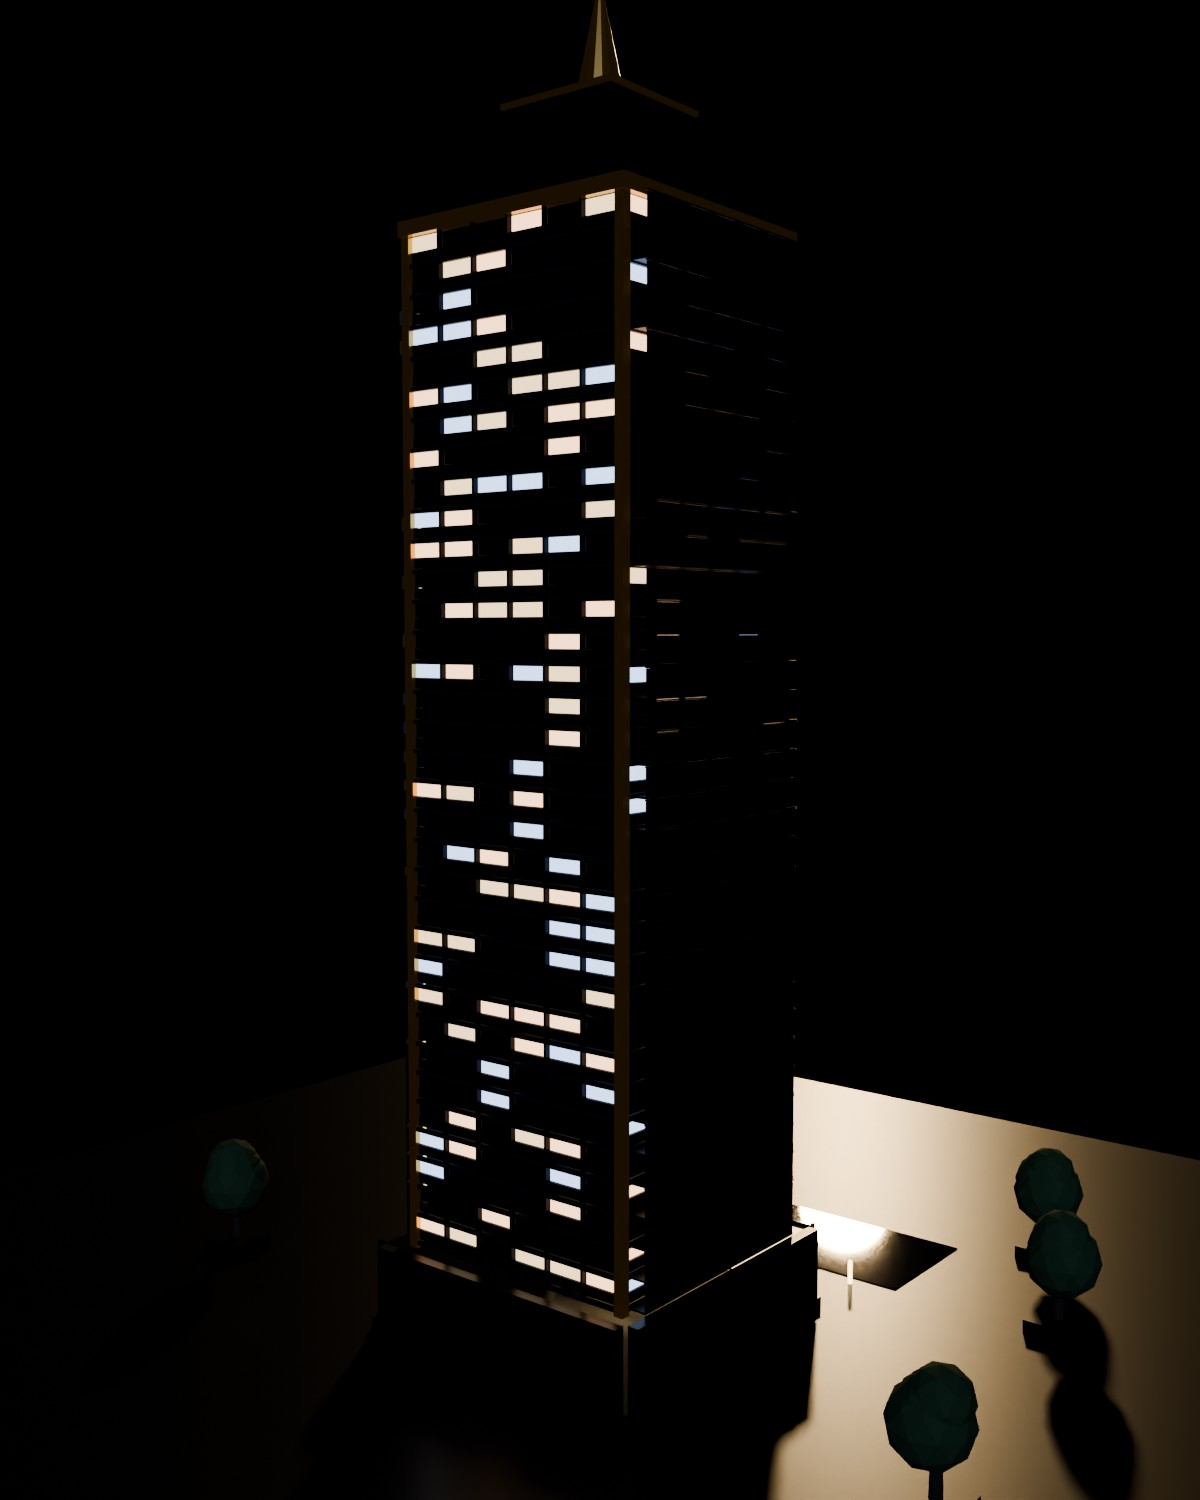
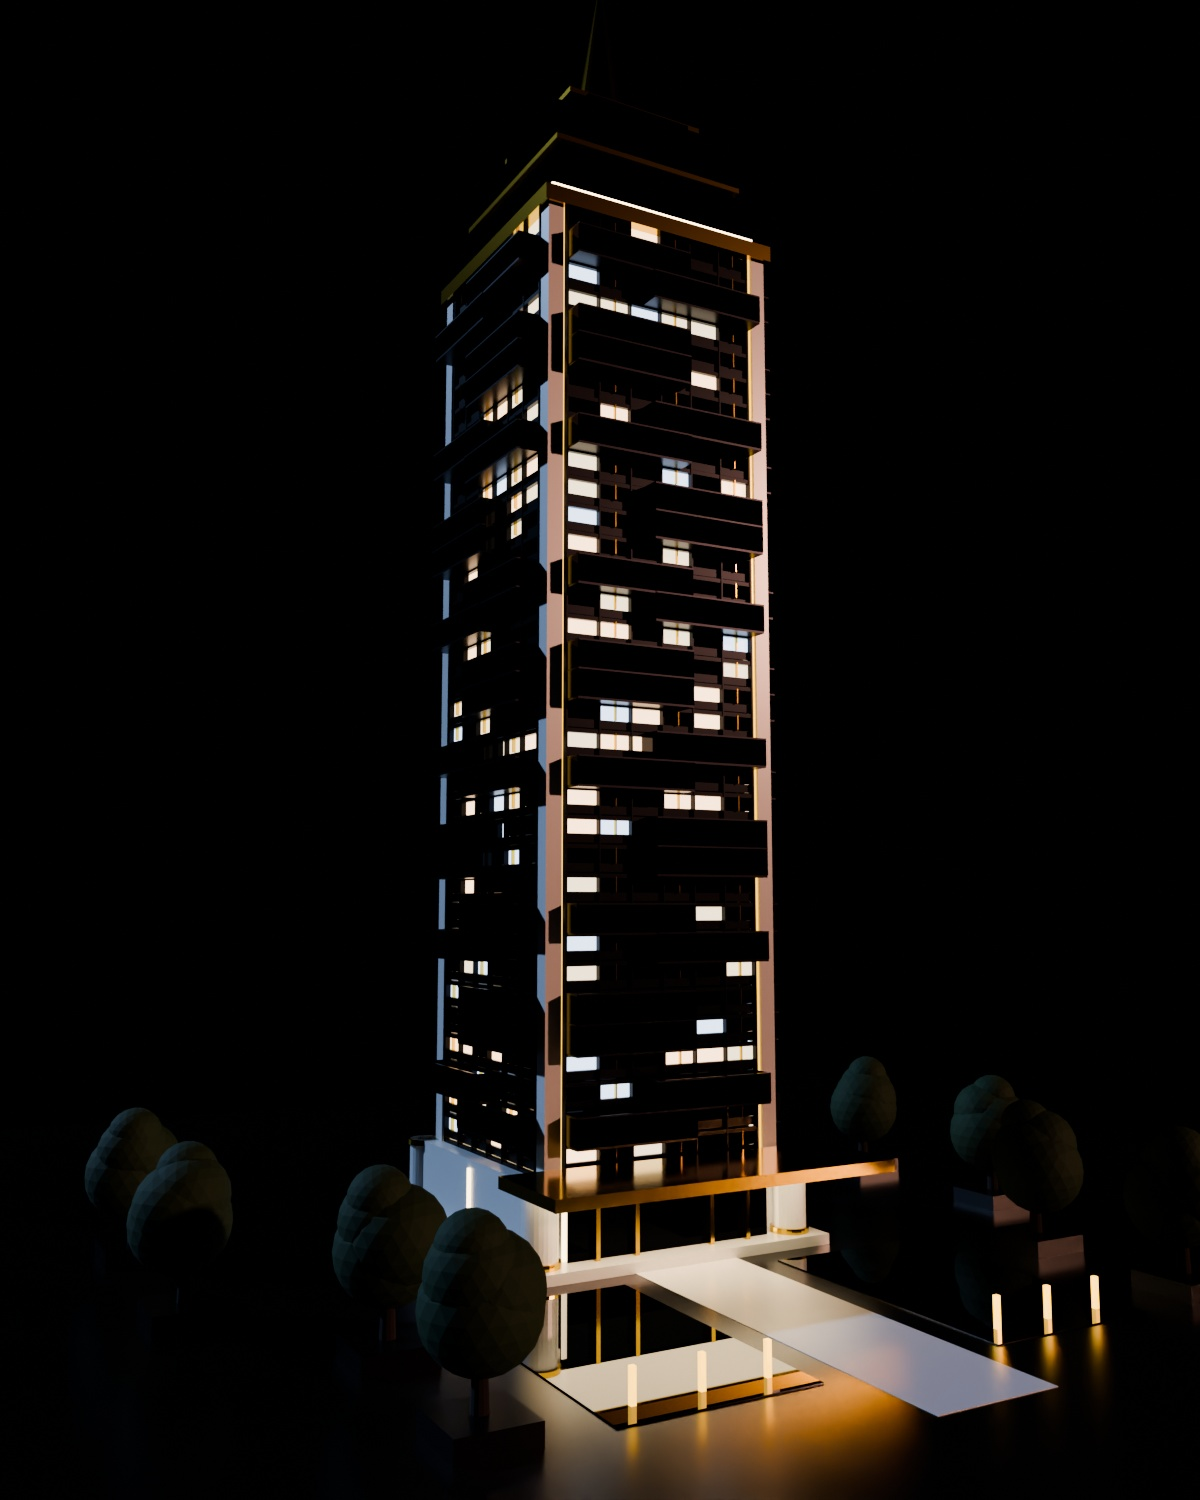
Enhance tower exterior with luxury details: mega-frame, gold louvers, tiered crown, grand podium, plaza landscaping

diff --git a/blender/build_tower_rich.py b/blender/build_tower_rich.py
@@ -1,0 +1,385 @@
+import bpy, bmesh, math, random, sys, os
+from mathutils import Vector
+
+# Use the actual correct path
+ROOT = "C:/Users/user/Documents/lumiere-residences"
+GLB = ROOT + "/public/models/tower.glb"
+PREVIEW = ROOT + "/blender/_tower_preview.jpg"
+argv = sys.argv[sys.argv.index("--") + 1:] if "--" in sys.argv else []
+DO_PREVIEW = "nopreview" not in argv
+
+# Ensure directory exists
+os.makedirs(os.path.dirname(GLB), exist_ok=True)
+
+# ---- match TowerScene.tsx TOWER constants ----
+FL = 34          # floors
+FH = 1.0         # floor height
+POD = 3.0        # podium height
+W = 9.0          # body width (x)
+D = 9.0          # body depth (y)
+BODY_Z0 = POD
+BODY_Z1 = POD + FL * FH       # 37
+RNG = random.Random(20260615)
+
+# ------------------------------------------------------------------ colour
+def s2l(c):
+    return c / 12.92 if c <= 0.04045 else ((c + 0.055) / 1.055) ** 2.4
+def col(h):
+    h = h.lstrip("#")
+    return tuple(s2l(int(h[i:i+2], 16) / 255) for i in (0, 2, 4))
+
+def mat(name, base, rough=0.5, metal=0.0, emis=None, estr=1.0, transmission=0.0, ior=1.45):
+    m = bpy.data.materials.new(name); m.use_nodes = True
+    b = m.node_tree.nodes.get("Principled BSDF")
+    b.inputs["Base Color"].default_value = (*base, 1)
+    b.inputs["Roughness"].default_value = rough
+    b.inputs["Metallic"].default_value = metal
+    for k in ("Transmission Weight", "Transmission"):
+        if k in b.inputs:
+            b.inputs[k].default_value = transmission; break
+    if "IOR" in b.inputs:
+        b.inputs["IOR"].default_value = ior
+    if emis is not None:
+        if "Emission Color" in b.inputs:
+            b.inputs["Emission Color"].default_value = (*emis, 1)
+        if "Emission Strength" in b.inputs:
+            b.inputs["Emission Strength"].default_value = estr
+    return m
+
+# ------------------------------------------------------------------ bmesh helpers
+def add_box(bm, center, size, mi=0):
+    r = bmesh.ops.create_cube(bm, size=1.0)
+    vs = r["verts"]
+    bmesh.ops.scale(bm, vec=Vector(size), verts=vs)
+    bmesh.ops.translate(bm, vec=Vector(center), verts=vs)
+    faces = set()
+    for v in vs:
+        for f in v.link_faces:
+            faces.add(f)
+    for f in faces:
+        f.material_index = mi
+
+def add_cylinder(bm, center, radius, depth, mi=0):
+    r = bmesh.ops.create_cone(bm, cap_ends=True, cap_tris=False, segments=24, radius1=radius, radius2=radius, depth=depth)
+    vs = r["verts"]
+    bmesh.ops.translate(bm, vec=Vector(center), verts=vs)
+    faces = set()
+    for v in vs:
+        for f in v.link_faces:
+            faces.add(f)
+    for f in faces:
+        f.material_index = mi
+
+def commit(bm, name, materials):
+    me = bpy.data.meshes.new(name)
+    bm.to_mesh(me); bm.free()
+    for mt in materials:
+        me.materials.append(mt)
+    ob = bpy.data.objects.new(name, me)
+    bpy.context.scene.collection.objects.link(ob)
+    return ob
+
+FACES = [
+    {"n": "Y", "s": 1, "off": D / 2, "wdt": W, "front": True},
+    {"n": "Y", "s": -1, "off": D / 2, "wdt": W, "front": False},
+    {"n": "X", "s": 1, "off": W / 2, "wdt": D, "front": False},
+    {"n": "X", "s": -1, "off": W / 2, "wdt": D, "front": False},
+]
+
+def panel(bm, face, uc, zc, usz, zsz, depth, doff, mi):
+    if face["n"] == "Y":
+        center = (uc, face["s"] * (face["off"] + doff), zc)
+        size = (usz, depth, zsz)
+    else:
+        center = (face["s"] * (face["off"] + doff), uc, zc)
+        size = (depth, usz, zsz)
+    add_box(bm, center, size, mi)
+
+# ------------------------------------------------------------------ build
+def build():
+    bpy.ops.wm.read_factory_settings(use_empty=True)
+
+    # High-end materials
+    M_glass = mat("glass", col("#080a0f"), 0.02, 0.95, transmission=0.1)
+    M_litA = mat("litA", col("#151008"), 0.2, 0.0, emis=col("#ffd2a6"), estr=4.0)
+    M_litB = mat("litB", col("#151008"), 0.2, 0.0, emis=col("#ffe8c4"), estr=2.5)
+    M_litC = mat("litC", col("#080c14"), 0.2, 0.0, emis=col("#cce0ff"), estr=3.0)
+    M_slab = mat("slab", col("#1a1b20"), 0.4, 0.5)
+    M_spandrel = mat("spandrel", col("#0a0a0f"), 0.1, 0.8)
+    M_mull = mat("mullion", col("#15161a"), 0.3, 0.95)
+    M_metal = mat("metal", col("#1e1e24"), 0.3, 0.95)
+    M_gold = mat("gold", col("#d4af37"), 0.15, 1.0) # More luxurious gold
+    M_gold_emit = mat("gold_emit", col("#d4af37"), 0.2, 1.0, emis=col("#ffc44d"), estr=2.5)
+    M_crownglow = mat("crownglow", col("#ffeed0"), 0.4, 0.0, emis=col("#ffe0b2"), estr=8.0)
+    M_lobby = mat("lobby", col("#ffe8cc"), 0.3, 0.0, emis=col("#ffe4b5"), estr=5.0)
+    M_beacon = mat("beacon", col("#ff3333"), 0.2, 0.0, emis=col("#ff3333"), estr=12.0)
+    M_stone = mat("stone", col("#0f0f12"), 0.25, 0.2)
+    M_stone_light = mat("stone_light", col("#dcdcdc"), 0.3, 0.1)
+    M_plant = mat("plant", col("#1e361b"), 0.8)
+    M_trunk = mat("trunk", col("#1c1612"), 0.9)
+    M_water = mat("water", col("#05080c"), 0.01, 0.0, transmission=0.8)
+    M_bollard = mat("bollard", col("#d4af37"), 0.2, 1.0, emis=col("#ffc44d"), estr=4.0)
+
+    def rnd_glass():
+        r = RNG.random()
+        if r < 0.65: return 0   # dark
+        if r < 0.80: return 1   # warm A
+        if r < 0.92: return 2   # warm B
+        return 3                # cool
+
+    # ---- CORE & MEGA FRAME ----
+    bm_s = bmesh.new(); bm_frame = bmesh.new()
+    # Central opaque core
+    add_box(bm_s, (0, 0, (BODY_Z0 + BODY_Z1) / 2), (W - 1.0, D - 1.0, FL * FH), 1)
+    
+    # Mega-frame structures on corners
+    FRAME_THICK = 0.6
+    for cx in (-W/2 + 0.1, W/2 - 0.1):
+        for cy in (-D/2 + 0.1, D/2 - 0.1):
+            add_box(bm_frame, (cx, cy, (BODY_Z0 + BODY_Z1) / 2), (FRAME_THICK, FRAME_THICK, FL * FH + 1.0), 0)
+    
+    obj_s = commit(bm_s, "facade_struct", [M_slab, M_spandrel])
+    obj_frame = commit(bm_frame, "mega_frame", [M_stone_light])
+
+    # ---- CURTAIN WALL WITH LOUVERS ----
+    bm_g = bmesh.new(); bm_m = bmesh.new(); bm_gold = bmesh.new()
+    SP = 0.30
+    for face in FACES:
+        wdt = face["wdt"] - FRAME_THICK*2 # Fit between frames
+        bays = max(4, round(wdt / 1.2))
+        bw = wdt / bays
+        for f in range(FL):
+            z0 = POD + f * FH
+            z1 = z0 + FH
+            panel(bm_m, face, 0, z0 + 0.02, wdt, 0.15, 0.16, 0.08, 0) # Floor slab
+            for b in range(bays):
+                uc = -wdt / 2 + (b + 0.5) * bw
+                panel(bm_m, face, uc, z0 + SP / 2 + 0.15, bw - 0.02, SP, 0.1, -0.01, 0) # spandrel
+                gz0 = z0 + SP + 0.15; gz1 = z1
+                panel(bm_g, face, uc, (gz0 + gz1) / 2, bw - 0.1, gz1 - gz0 - 0.04, 0.08, -0.04, rnd_glass())
+                
+                # Vertical decorative louvers (Gold)
+                if b % 2 == 0:
+                    panel(bm_gold, face, uc, (gz0 + gz1) / 2, 0.04, gz1 - gz0, 0.12, 0.12, 0)
+
+        for b in range(bays + 1):  # Mullions
+            uc = -wdt / 2 + b * bw
+            panel(bm_m, face, uc, (BODY_Z0 + BODY_Z1) / 2, 0.06, FL * FH, 0.22, 0.08, 0)
+
+    # Lighting strips along mega frame
+    for cx in (-W/2 + 0.1 + FRAME_THICK/2 + 0.05, W/2 - 0.1 - FRAME_THICK/2 - 0.05):
+        add_box(bm_gold, (cx, D/2 + 0.1, (BODY_Z0 + BODY_Z1)/2), (0.05, 0.05, FL * FH), 1)
+        add_box(bm_gold, (cx, -D/2 - 0.1, (BODY_Z0 + BODY_Z1)/2), (0.05, 0.05, FL * FH), 1)
+
+    obj_g = commit(bm_g, "facade_glass", [M_glass, M_litA, M_litB, M_litC])
+    obj_m = commit(bm_m, "mullions", [M_mull])
+    obj_gold = commit(bm_gold, "gold_accents", [M_gold, M_gold_emit])
+
+    # ---- BALCONIES (DYNAMIC) ----
+    bm_b = bmesh.new(); bm_bg = bmesh.new()
+    for face in FACES:
+        wdt = face["wdt"] - FRAME_THICK*2
+        for f in range(FL):
+            if f % 3 == 0: continue # Break pattern
+            z = POD + f * FH
+            
+            # Wavy / offset balconies
+            is_right = (f // 2) % 2 == 0
+            b_width = wdt * 0.6
+            offset_x = (wdt - b_width)/2 * (1 if is_right else -1)
+            depth = 1.0
+            
+            panel(bm_b, face, offset_x, z + 0.04, b_width, 0.08, depth, depth/2, 0) # slab
+            panel(bm_bg, face, offset_x, z + 0.55, b_width, 0.94, 0.04, depth - 0.02, 0) # glass
+            panel(bm_b, face, offset_x, z + 1.05, b_width, 0.06, 0.1, depth - 0.02, 0) # handrail
+            
+            # Side rails for the balcony
+            if face["n"] == "Y":
+                add_box(bm_bg, (offset_x - b_width/2*face["s"], face["s"] * (face["off"] + depth/2), z + 0.55), (0.04, depth, 0.94), 0)
+                add_box(bm_bg, (offset_x + b_width/2*face["s"], face["s"] * (face["off"] + depth/2), z + 0.55), (0.04, depth, 0.94), 0)
+                add_box(bm_b, (offset_x - b_width/2*face["s"], face["s"] * (face["off"] + depth/2), z + 1.05), (0.04, depth, 0.06), 0)
+                add_box(bm_b, (offset_x + b_width/2*face["s"], face["s"] * (face["off"] + depth/2), z + 1.05), (0.04, depth, 0.06), 0)
+            else:
+                add_box(bm_bg, (face["s"] * (face["off"] + depth/2), offset_x - b_width/2*face["s"], z + 0.55), (depth, 0.04, 0.94), 0)
+                add_box(bm_bg, (face["s"] * (face["off"] + depth/2), offset_x + b_width/2*face["s"], z + 0.55), (depth, 0.04, 0.94), 0)
+                add_box(bm_b, (face["s"] * (face["off"] + depth/2), offset_x - b_width/2*face["s"], z + 1.05), (depth, 0.04, 0.06), 0)
+                add_box(bm_b, (face["s"] * (face["off"] + depth/2), offset_x + b_width/2*face["s"], z + 1.05), (depth, 0.04, 0.06), 0)
+
+    obj_b = commit(bm_b, "balconies", [M_metal])
+    obj_bg = commit(bm_bg, "balcony_glass", [M_glass])
+
+    # ---- CROWN (LUXURY TIERED) ----
+    bm_cr = bmesh.new(); bm_crg = bmesh.new(); bm_crgold = bmesh.new()
+    ct = BODY_Z1
+    add_box(bm_crgold, (0, 0, ct + 0.3), (W + 0.8, D + 0.8, 0.6), 0) # Thick gold cornice
+    add_box(bm_crg, (0, 0, ct + 0.8), (W - 0.2, D - 0.2, 0.4), 0) # Glow band
+    
+    # Tier 1
+    add_box(bm_cr, (0, 0, ct + 2.0), (W * 0.85, D * 0.85, 2.0), 0)
+    add_box(bm_crgold, (0, 0, ct + 3.1), (W * 0.9, D * 0.9, 0.2), 0)
+    
+    # Tier 2 (Octagonal-ish via 2 boxes)
+    add_box(bm_cr, (0, 0, ct + 4.5), (W * 0.6, D * 0.6, 2.6), 0)
+    add_box(bm_cr, (0, 0, ct + 4.5), (W * 0.5, D * 0.7, 2.6), 0)
+    add_box(bm_cr, (0, 0, ct + 4.5), (W * 0.7, D * 0.5, 2.6), 0)
+    
+    add_box(bm_crgold, (0, 0, ct + 5.9), (W * 0.65, D * 0.65, 0.2), 0)
+    
+    # Spire
+    r = bmesh.ops.create_cone(bm_crgold, cap_ends=True, segments=24, radius1=1.2, radius2=0.05, depth=7.0)
+    bmesh.ops.translate(bm_crgold, vec=Vector((0, 0, ct + 9.5)), verts=r["verts"])
+    
+    add_box(bm_crg, (0, 0, ct + 13.0), (0.2, 0.2, 0.4), 0)
+    
+    obj_cr = commit(bm_cr, "crown_glass", [M_glass])
+    obj_crg = commit(bm_crg, "crown_glow", [M_crownglow])
+    obj_crgold = commit(bm_crgold, "crown_gold", [M_gold])
+    
+    # Beacon
+    bm_be = bmesh.new()
+    rb = bmesh.ops.create_uvsphere(bm_be, u_segments=16, v_segments=12, radius=0.25)
+    bmesh.ops.translate(bm_be, vec=Vector((0, 0, ct + 13.5)), verts=rb["verts"])
+    obj_be = commit(bm_be, "beacon", [M_beacon])
+
+    # ---- PODIUM (GRAND LOBBY) ----
+    bm_p = bmesh.new(); bm_pg = bmesh.new(); bm_pl = bmesh.new(); bm_pgold = bmesh.new()
+    
+    # Plinth base
+    add_box(bm_p, (0, 0, 0.2), (W + 3.0, D + 3.0, 0.4), 0)
+    
+    # Grand columns around the base
+    for cx in (-W/2 - 0.5, W/2 + 0.5):
+        for cy in (-D/2 - 0.5, D/2 + 0.5):
+            add_cylinder(bm_p, (cx, cy, POD/2 + 0.2), 0.6, POD - 0.4, 0)
+            add_cylinder(bm_pgold, (cx, cy, POD - 0.1), 0.7, 0.2, 0) # Capital
+            add_cylinder(bm_pgold, (cx, cy, 0.5), 0.7, 0.2, 0) # Base
+    
+    # Podium core & glass
+    for face in FACES:
+        wdt = face["wdt"]
+        if face["front"]:
+            # Grand Entrance
+            panel(bm_pg, face, 0, 1.7, wdt - 1.0, 2.6, 0.05, 0.5, 0) # Deep glass
+            panel(bm_pl, face, 0, 1.6, wdt - 0.8, 2.4, 0.05, 0.3, 0) # Lobby glow
+            
+            # Massive canopy
+            panel(bm_pgold, face, 0, 3.2, wdt + 4.0, 0.4, 4.0, 2.5, 0)
+            panel(bm_pl, face, 0, 3.0, wdt + 3.0, 0.05, 3.5, 2.5, 0) # Canopy glow
+            
+            # Vertical fins
+            for bx in (-2, -1, 1, 2):
+                panel(bm_pgold, face, bx * 1.5, 1.7, 0.15, 2.6, 0.3, 0.65, 0)
+        else:
+            panel(bm_p, face, 0, 1.7, wdt + 1.0, 2.6, 0.6, 0.5, 0)
+            # Add some light slits to the stone
+            panel(bm_pl, face, 0, 1.7, 0.2, 2.0, 0.65, 0.55, 0)
+
+    obj_p = commit(bm_p, "podium", [M_stone_light])
+    obj_pg = commit(bm_pg, "podium_glass", [M_glass])
+    obj_pl = commit(bm_pl, "podium_glow", [M_lobby])
+    obj_pgold = commit(bm_pgold, "podium_gold", [M_gold])
+
+    # ---- PLAZA & LANDSCAPE ----
+    bm_pl2 = bmesh.new()
+    add_box(bm_pl2, (0, 0, 0.02), (70, 70, 0.04), 0)
+    # Pathway
+    add_box(bm_pl2, (0, 10, 0.03), (4, 20, 0.05), 1)
+    obj_plaza = commit(bm_pl2, "plaza", [M_stone, M_stone_light])
+    
+    bm_w = bmesh.new()
+    # Large flanking pools
+    add_box(bm_w, (-6, 12, 0.05), (6, 10, 0.06), 0)
+    add_box(bm_w, (6, 12, 0.05), (6, 10, 0.06), 0)
+    obj_wat = commit(bm_w, "pool", [M_water])
+    
+    # Trees
+    bm_tr = bmesh.new(); bm_tc = bmesh.new()
+    tree_spots = [(-12, 10), (12, 10), (-12, 16), (12, 16), (-16, 4), (16, 4), (-16, -4), (16, -4)]
+    for (tx, ty) in tree_spots:
+        rt = bmesh.ops.create_cone(bm_tr, cap_ends=True, segments=12, radius1=0.25, radius2=0.15, depth=2.5)
+        bmesh.ops.translate(bm_tr, vec=Vector((tx, ty, 1.25)), verts=rt["verts"])
+        for (oz, rr) in [(2.8, 1.5), (3.6, 1.2), (3.2, 1.4), (4.2, 0.9)]:
+            rc = bmesh.ops.create_icosphere(bm_tc, subdivisions=3, radius=rr)
+            bmesh.ops.translate(bm_tc, vec=Vector((tx + RNG.uniform(-0.3, 0.3), ty + RNG.uniform(-0.3, 0.3), oz)), verts=rc["verts"])
+    obj_tr = commit(bm_tr, "trunks", [M_trunk])
+    obj_tc = commit(bm_tc, "canopies", [M_plant])
+    
+    # Planters + Bollards
+    bm_pln = bmesh.new(); bm_bo = bmesh.new()
+    for (tx, ty) in tree_spots:
+        add_box(bm_pln, (tx, ty, 0.3), (2.2, 2.2, 0.6), 0)
+    for i in range(-4, 5):
+        if abs(i) > 1: # Leave path clear
+            add_box(bm_bo, (i * 2.0, 16.0, 0.5), (0.15, 0.15, 1.0), 0)
+    obj_pln = commit(bm_pln, "planters", [M_stone])
+    obj_bo = commit(bm_bo, "bollards", [M_bollard])
+
+    print("BUILD_OK objects:", len(bpy.context.scene.collection.objects))
+
+def setup_preview():
+    sc = bpy.context.scene
+    sc.render.engine = "CYCLES"
+    try:
+        prefs = bpy.context.preferences.addons["cycles"].preferences
+        for ct in ("OPTIX", "CUDA", "HIP"):
+            try:
+                prefs.compute_device_type = ct; prefs.refresh_devices()
+            except Exception:
+                continue
+            if any(d.type == ct for d in prefs.devices):
+                for d in prefs.devices:
+                    d.use = (d.type == ct)
+                sc.cycles.device = "GPU"; print("GPU", ct); break
+    except Exception as e:
+        print("gpu err", e)
+    sc.cycles.samples = 128 # Higher quality preview
+    sc.cycles.use_adaptive_sampling = True
+    try:
+        sc.cycles.use_denoising = True; sc.cycles.denoiser = "OPENIMAGEDENOISE"
+    except Exception:
+        pass
+    try:
+        sc.view_settings.look = "AgX - Medium High Contrast"
+    except Exception:
+        pass
+    sc.view_settings.exposure = -0.1
+    sc.render.resolution_x = 1200; sc.render.resolution_y = 1500
+    sc.render.image_settings.file_format = "JPEG"; sc.render.image_settings.quality = 95
+    # world
+    w = bpy.data.worlds.new("W"); sc.world = w; w.use_nodes = True
+    bg = w.node_tree.nodes.get("Background")
+    bg.inputs["Color"].default_value = (*col("#05050a"), 1)
+    bg.inputs["Strength"].default_value = 0.5
+    # key + rim
+    for (rot, en, c) in [((math.radians(60), 0, math.radians(45)), 3.0, "#aaccff"),
+                         ((math.radians(75), 0, math.radians(220)), 2.0, "#ffbba0")]:
+        L = bpy.data.lights.new("sun", "SUN"); L.energy = en; L.color = col(c); L.angle = math.radians(2)
+        o = bpy.data.objects.new("sun", L); sc.collection.objects.link(o); o.rotation_euler = rot
+    # camera front/low view to show off the grandeur
+    cam = bpy.data.cameras.new("cam"); cam.lens = 32
+    co = bpy.data.objects.new("cam", cam); sc.collection.objects.link(co); sc.camera = co
+    co.location = (25, 45, 12)
+    # aim at mid tower
+    d = Vector((0, 0, 18)) - Vector(co.location)
+    co.rotation_euler = d.to_track_quat("-Z", "Y").to_euler()
+    sc.render.filepath = PREVIEW
+
+def export():
+    try:
+        bpy.ops.export_scene.gltf(
+            filepath=GLB, export_format="GLB", export_apply=True,
+            use_selection=False, export_materials="EXPORT", export_yup=True,
+        )
+    except TypeError:
+        bpy.ops.export_scene.gltf(filepath=GLB, export_format="GLB")
+    print("EXPORT_OK", GLB)
+
+build()
+if DO_PREVIEW:
+    setup_preview()
+    import time as _t
+    t0 = _t.time()
+    bpy.ops.render.render(write_still=True)
+    print("PREVIEW_OK in %.1fs" % (_t.time() - t0))
+export()
+print("ALL_DONE")